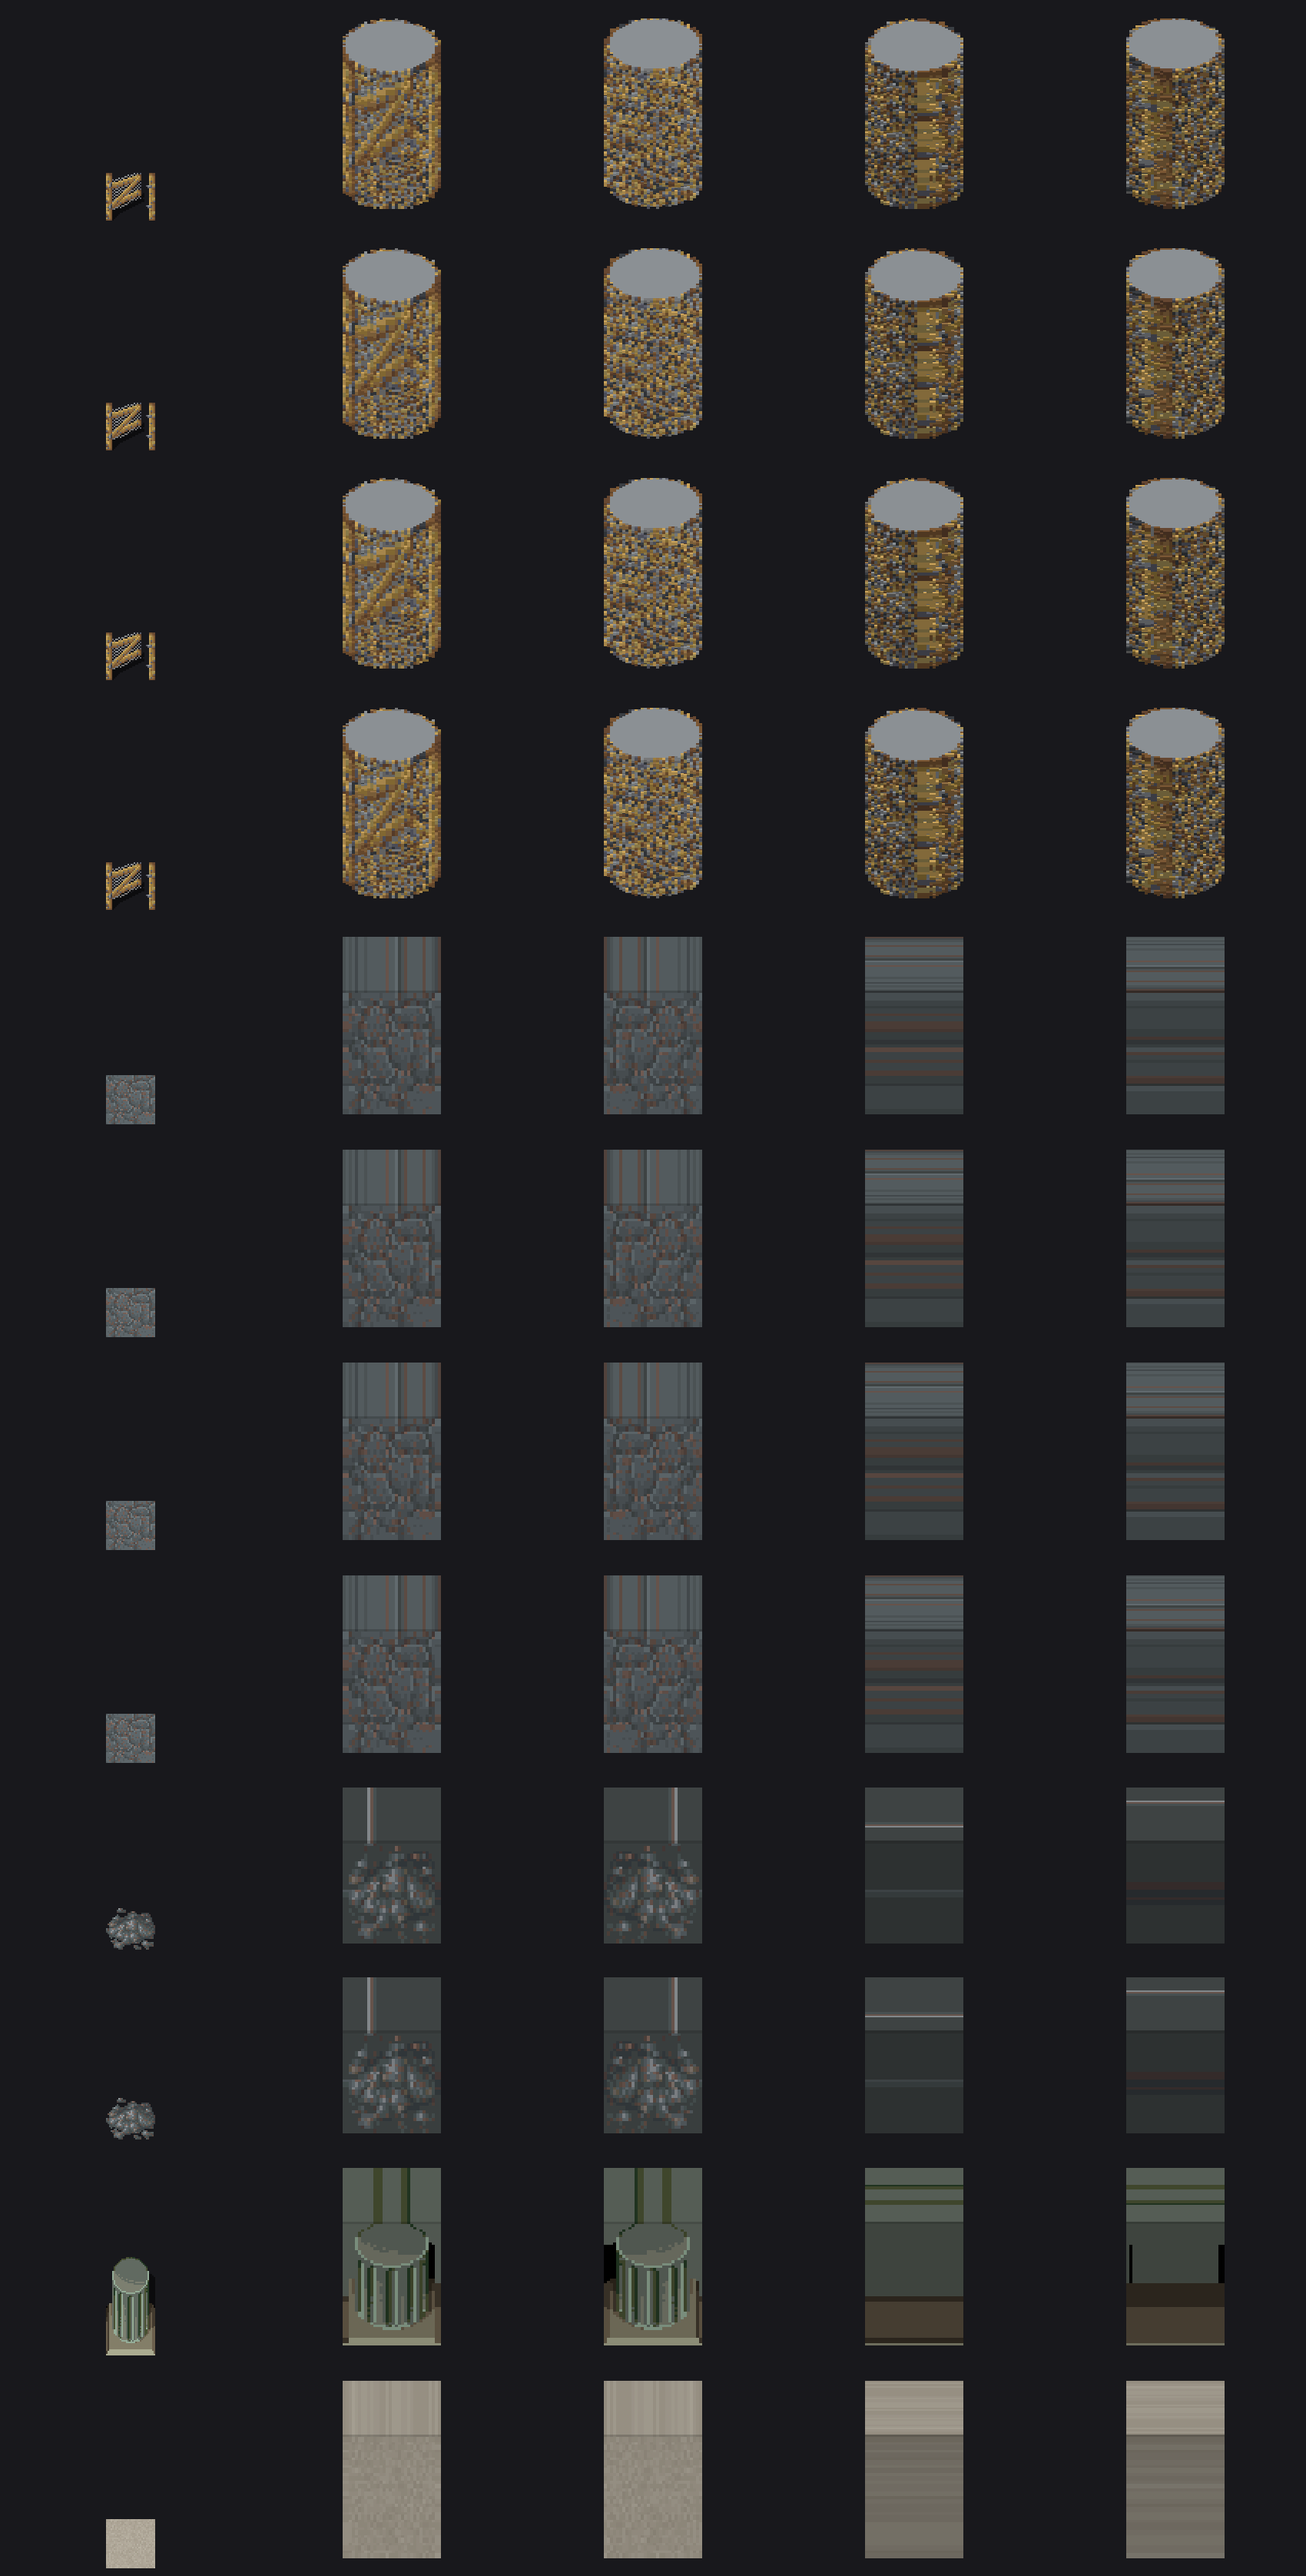
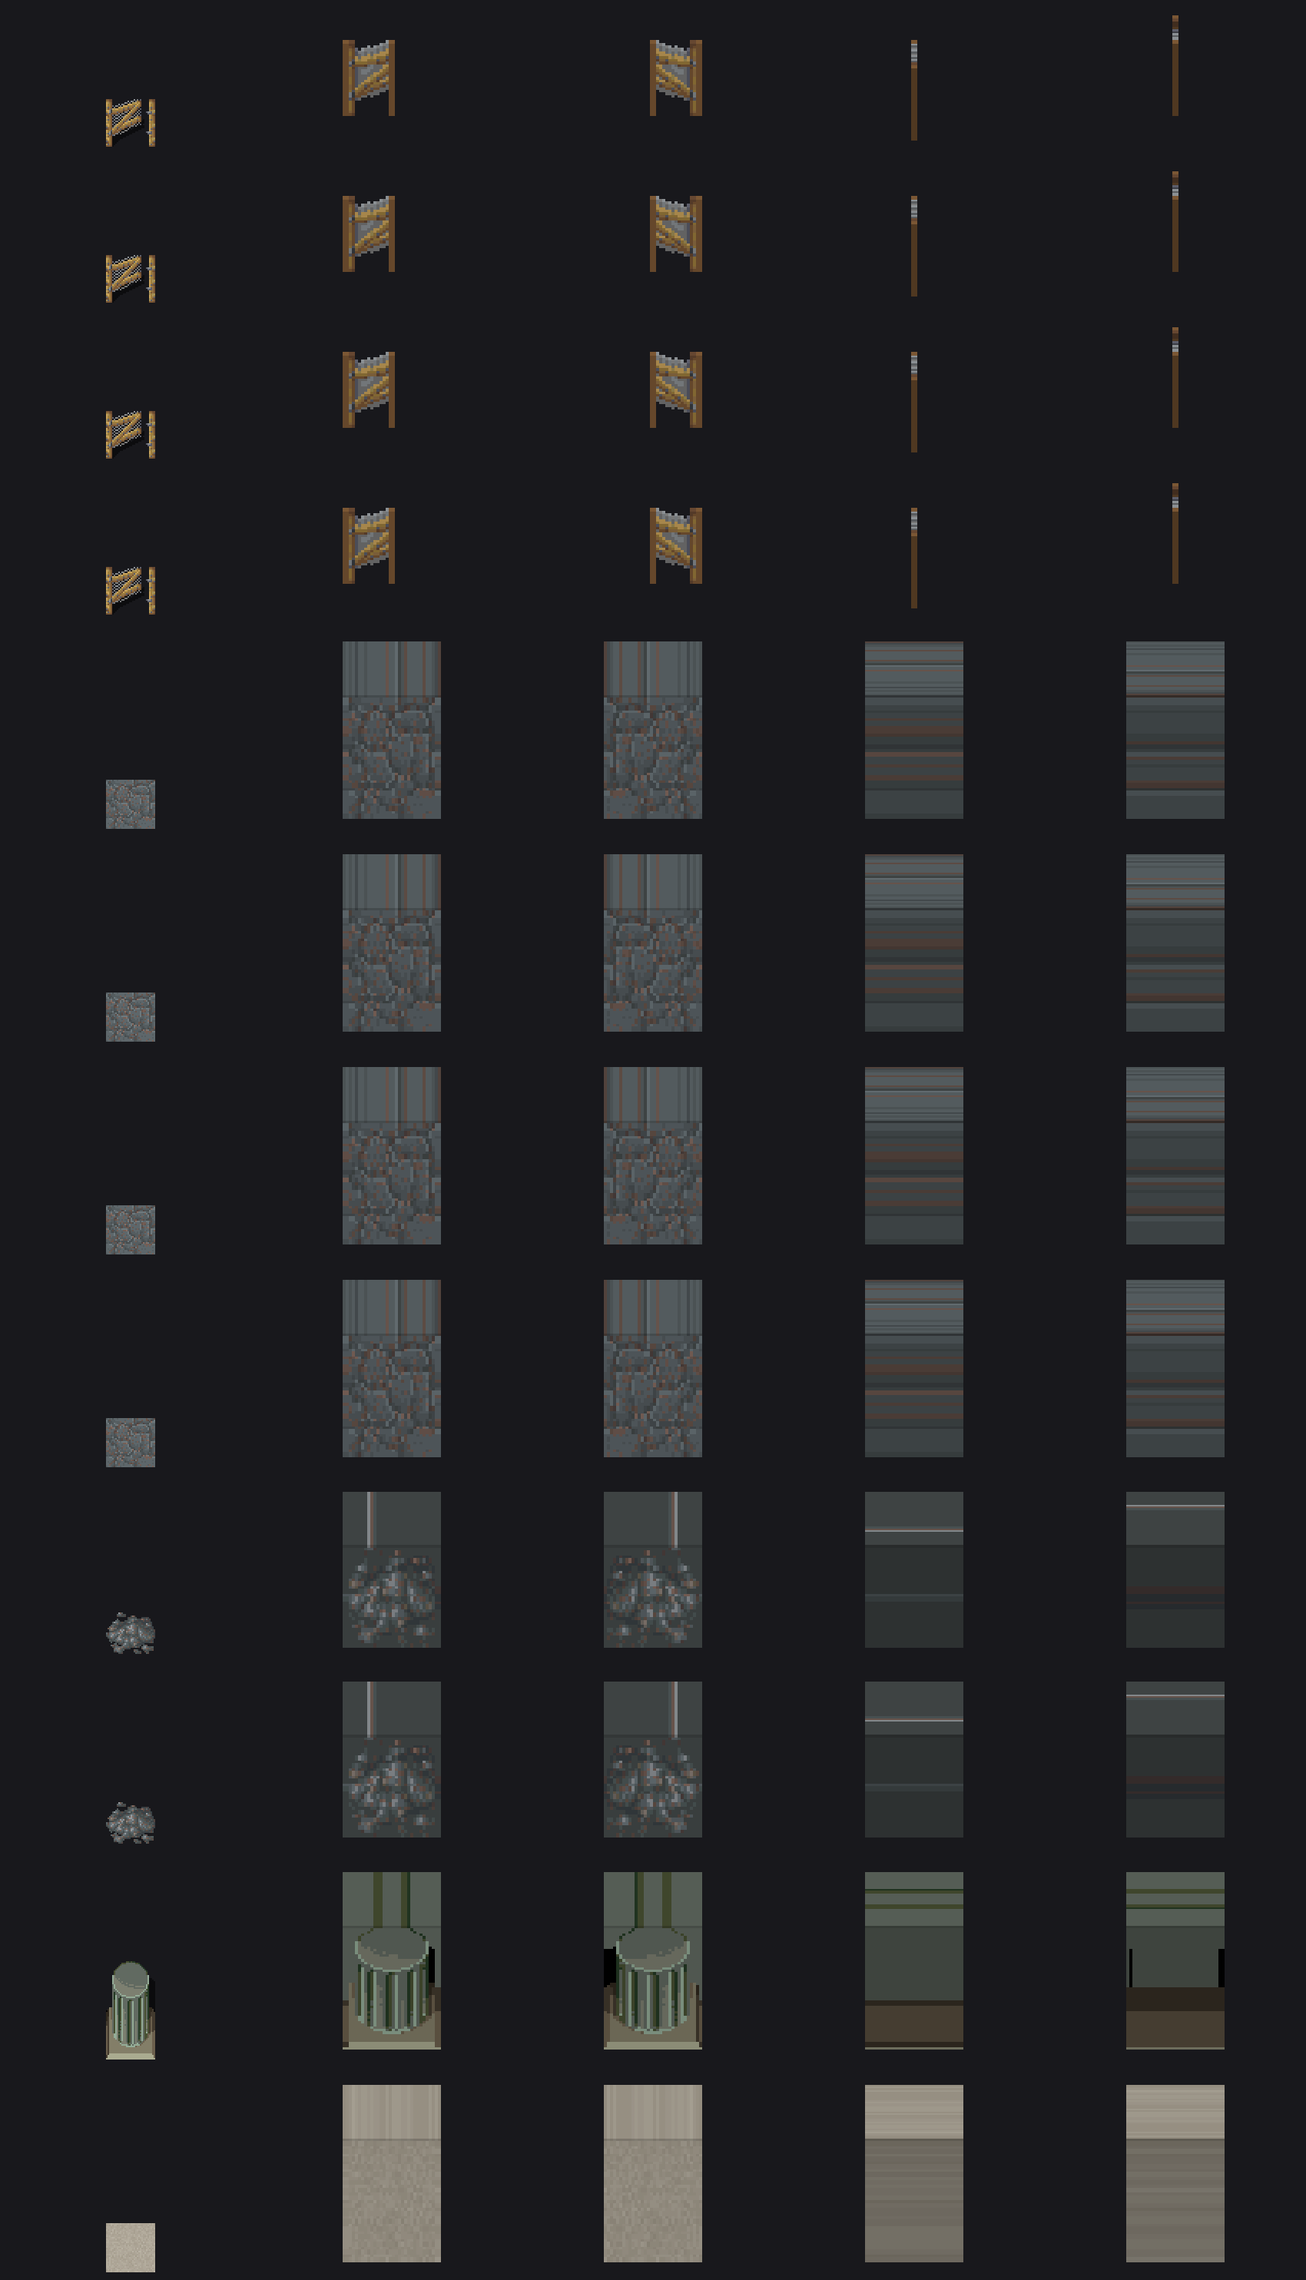
Stairs + silhouette others batch review: card doors, gates, flat features, tents
All 293 ids reviewed (docs/prop-views/other_batch_*.png,
stairs_batch_01.png, fixes in other_fixes_v1.png):

- Keycard doors (t_card_* family, 16 ids) contain no
  'door' and fell to the silhouette fallback as squat
  blocks; the door branch now takes card_ ids and
  they build as door-height panels.
- Chain-link and chickenwire gates (14 ids) matched
  neither the fence branch nor the door branch:
  closed chaingates were mesh-printed boxes, open
  ones birch-like cylinders. The fence branch now
  takes chaingate/chickenwire_gate and they build as
  fence-height segments.
- Flat features were tall boxes: pits (35), golf
  holes, manholes, the floor grate, railroad track
  beds/ties/rubble (19), roofs and the chasm now take
  the ground slab and carry their top-down texture
  on the slab top.
- Tents (tarptent, improvised shelter; 6 ids) were
  boxes; new terrain_tent builds an A-frame prism
  whose roof samples the top-down sprite.
- Down-stairs shade eased 0.55 -> 0.7 (dark sprites
  were crushed to black).

Voxelizer suite 106/106.

diff --git a/crates/voxelizer/src/props.rs b/crates/voxelizer/src/props.rs
@@ -7234,7 +7234,7 @@ pub fn terrain_model_for(id: &str, sprite: &RgbaImage) -> Option<PropModel> {
     // every terrain id with a sprite gets a model; the
     // per-family batches then refine from the strips.
     let s = &id[2..];
-    if s.contains("fencegate") || s.contains("door") {
+    if s.contains("fencegate") || s.contains("door") || s.starts_with("card_") {
         if s.contains("fencegate") && !s.contains("privacy") {
             // A gate in a fence line is a fence segment,
             // not a door: panel builder at fence height.
@@ -7294,7 +7294,13 @@ pub fn terrain_model_for(id: &str, sprite: &RgbaImage) -> Option<PropModel> {
         };
         return Some(vegetation_model(sprite, base));
     }
-    if s.contains("fence") || s.contains("splitrail") || s.contains("barbed") || s.contains("railing") {
+    if s.contains("fence")
+        || s.contains("splitrail")
+        || s.contains("barbed")
+        || s.contains("railing")
+        || s.contains("chaingate")
+        || s.contains("chickenwire_gate")
+    {
         return Some(terrain_fence_panel(sprite));
     }
     if s.contains("window") {
@@ -7307,6 +7313,9 @@ pub fn terrain_model_for(id: &str, sprite: &RgbaImage) -> Option<PropModel> {
     if s.contains("wall") {
         let h = if s.contains("half") { 48 } else { 96 };
         return Some(terrain_box(sprite, h));
+    }
+    if s.contains("tarptent") || s.contains("improvised_shelter") {
+        return Some(terrain_tent(sprite));
     }
     if s.contains("stairs") || s.contains("ladder") || s.starts_with("ramp") {
         return Some(terrain_stairs(sprite, s.contains("down")));
@@ -7345,7 +7354,17 @@ pub fn terrain_model_for(id: &str, sprite: &RgbaImage) -> Option<PropModel> {
         || s == "rock"
         || s.starts_with("slime")
         || s == "clay"
-        || s == "ash";
+        || s == "ash"
+        || s.starts_with("pit")
+        || s.contains("_pit")
+        || s.contains("golf_hole")
+        || s.contains("manhole")
+        || s == "grate"
+        || s.contains("railroad_track")
+        || s.contains("railroad_tie")
+        || s.contains("railroad_rubble")
+        || s.contains("roof")
+        || s.contains("chasm");
     if ground {
         let mound = s.contains("mound");
         return Some(terrain_ground(sprite, liquid, mound));
@@ -8482,6 +8501,35 @@ fn terrain_ground(sprite: &RgbaImage, liquid: bool, mound: bool) -> PropModel {
     m
 }
 
+/// A-frame tent prism: ridge along x at the tile
+/// centre, solid fill under the slopes (a CDDA tent
+/// is an enclosed volume). The sprite is a top-down
+/// tent drawing, so each column's top cell samples
+/// the sprite at (x, z) -- the roof reads correctly
+/// from above -- and the fill shades down.
+fn terrain_tent(sprite: &RgbaImage) -> PropModel {
+    let (sw, sh) = (sprite.width() as i32, sprite.height() as i32);
+    let mut m = PropModel::new([32, 56, 32]);
+    let modal = modal_color(sprite.pixels().copied().filter(|p| p[3] >= 128))
+        .unwrap_or(rgb(90, 90, 70));
+    for x in 0..32i32 {
+        for z in 0..32i32 {
+            let d = (z as f32 - 15.5).abs() / 15.5;
+            let top = ((1.0 - d) * 52.0) as i32 + 2;
+            let p = *sprite.get_pixel(
+                (x * sw / 32).clamp(0, sw - 1) as u32,
+                (z * sh / 32).clamp(0, sh - 1) as u32,
+            );
+            let c = if p[3] >= 128 { p } else { modal };
+            for y in 0..=top {
+                let cc = if y == top { c } else { shade(c, 0.8) };
+                m.set(x as u32, y as u32, z as u32, Some(cc));
+            }
+        }
+    }
+    m
+}
+
 /// Stairs: six solid steps ascending toward the far
 /// side (z=0), tops textured from the sprite. Down
 /// stairs use the same structure darkened -- the
@@ -8502,7 +8550,7 @@ fn terrain_stairs(sprite: &RgbaImage, down: bool) -> PropModel {
                 );
                 let mut c = if p[3] >= 128 { p } else { modal };
                 if down {
-                    c = shade(c, 0.55);
+                    c = shade(c, 0.7);
                 }
                 for y in 0..top {
                     let cc = if y >= top - 2 { c } else { shade(c, 0.6) };
